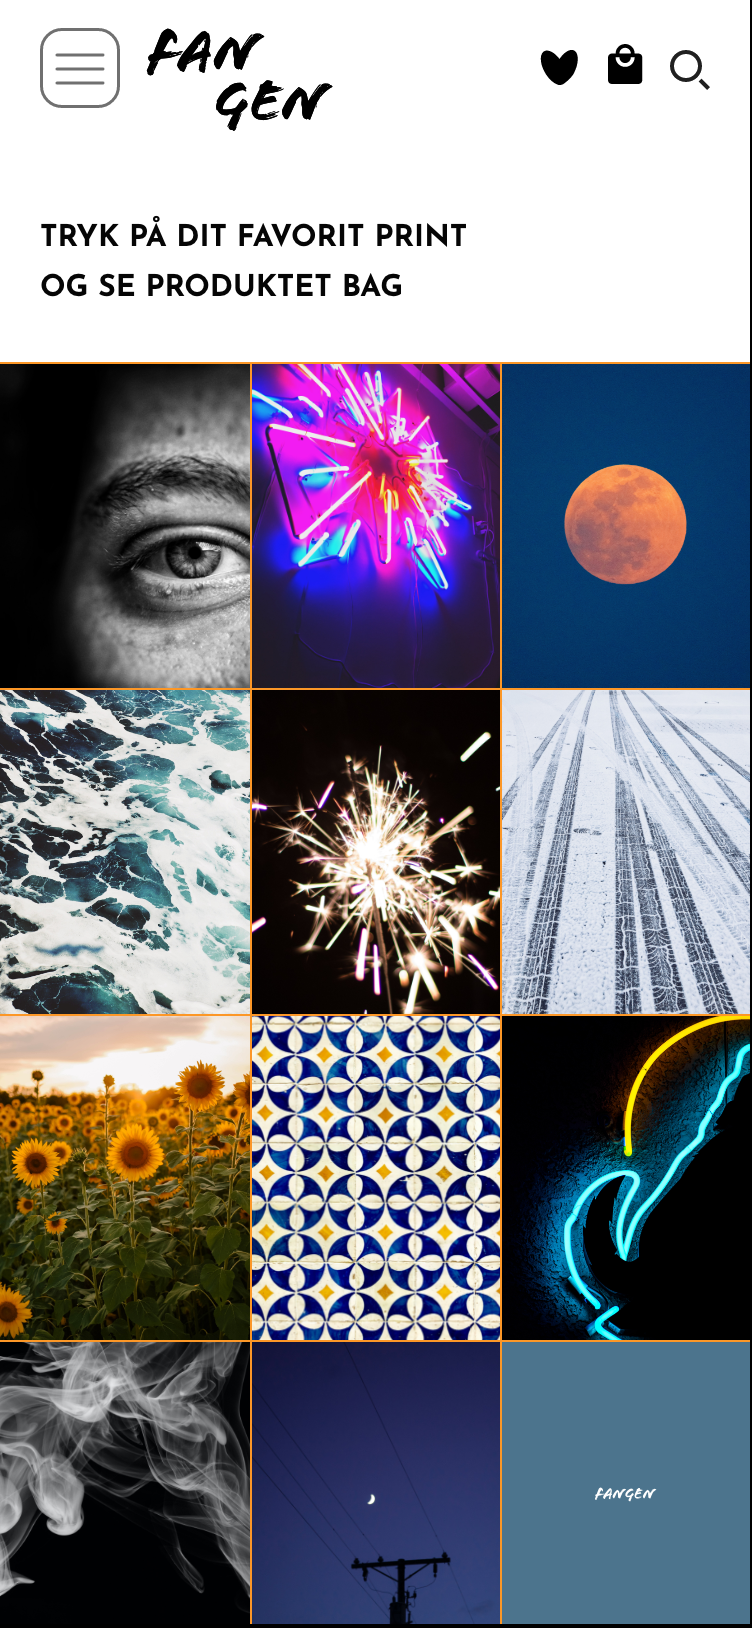
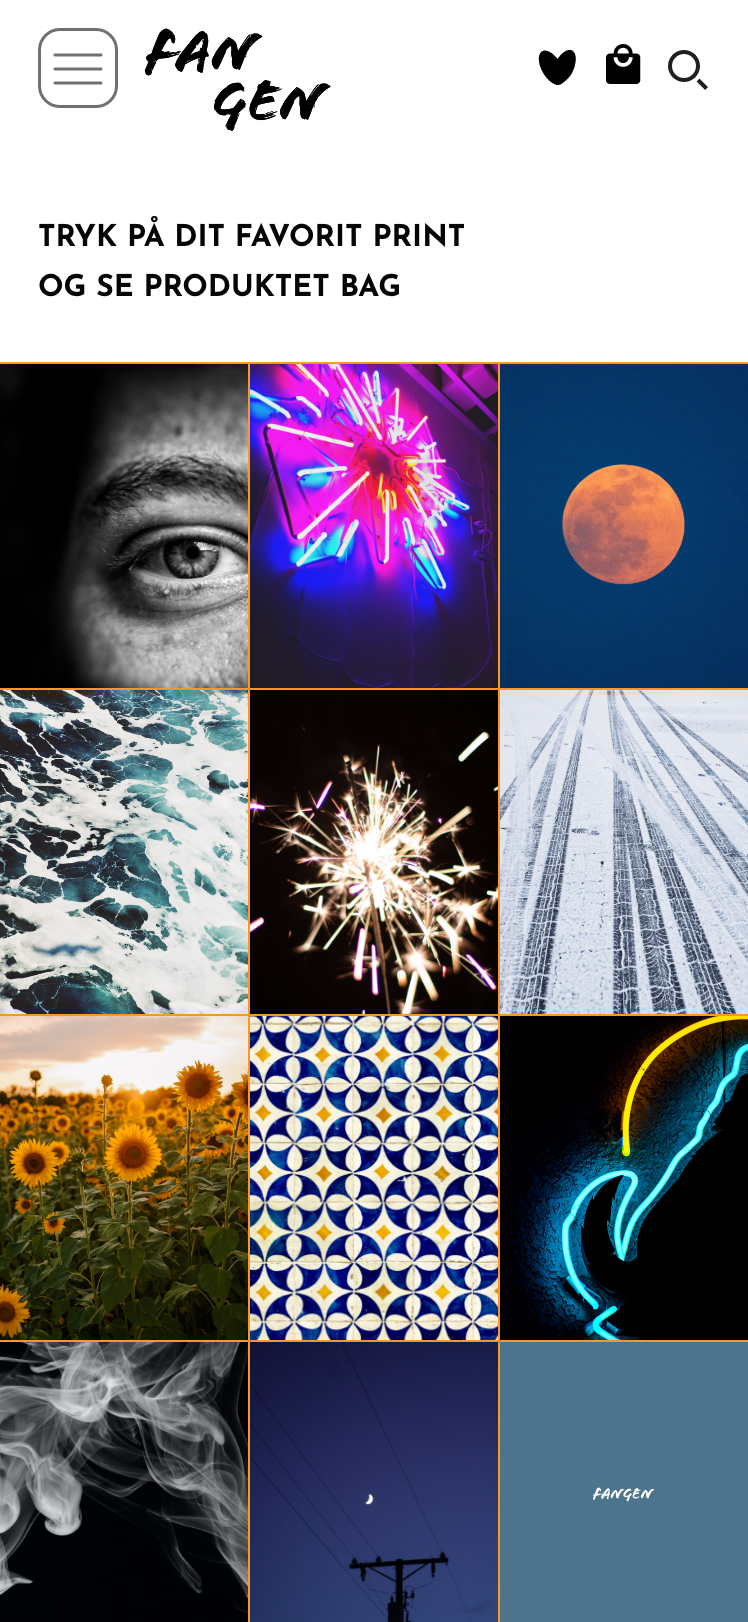
tema3 endelig er rette og billederne har fået kant

diff --git a/tema3_endelig.html b/tema3_endelig.html
@@ -103,13 +103,13 @@
                     <p>Jeg valget at lægge stor vægt på microcopy under mine betalingssider, idet jeg erfarede, at netop denne del af onlinehandel kan skabe frustration og forvirring hos brugeren. Jeg ønskede herpå at guide brugeren bedst muligt igennem købet ved at anvende kerneprincippet med samtal. </p>
                 </div>
                 <div class="col">
-                    <img src="billeder/tema3/endelig/k_1.png" alt="Trejde eksampel">
+                    <img src="billeder/tema3/endelig/k_2.png" alt="Trejde eksampel">
                 </div>
                 <div class="col">
-                    <img src="billeder/tema3/endelig/k_2.png" alt="Anden eksempel">
+                    <img src="billeder/tema3/endelig/k_3.png" alt="Anden eksempel">
                 </div>
                 <div class="col">
-                    <img src="billeder/tema3/endelig/k_3.png" alt="Første eksempel">
+                    <img src="billeder/tema3/endelig/k_1.png" alt="Første eksempel">
                 </div>
             </div>
         </section>
@@ -118,7 +118,7 @@
         <section id="endelig_fourth">
             <div class="section_wrapper">
                 <div class="row_top">
-                    <p>På min endelige prototype kørte jeg en tænk-højttest. Testen blev udført på tre studiekameraet, hvor jeg først stillede nogle indledende spørgsmål, hvorefter de fik min prototype, og nogen opgaver de skulle løse. <br><br>Jeg brugte testen til at finde mangler i mit design. Derudover fik jeg et indblik i hvad, der fungerede og hvad der ikke gjorde. Her ses nogen af mine rettelser. </p>
+                    <p>På min endelige prototype kørte jeg en tænk-højttest. Testen blev udført på tre studiekameraet, hvor jeg først stillede nogle indledende spørgsmål, hvorefter de fik min prototype, og nogen opgaver de skulle løse. <br><br>Jeg brugte testen til at finde mangler i mit design. Derudover fik jeg et indblik i hvad, der fungerede og hvad der ikke gjorde. Her ses nogen af mine rettelser. Højre billede er før og venstre billede er efter den gjorte rettelse.</p>
                 </div>
                 <div class="row_bottom">
                     <div class="image">

diff --git a/styles/tema3_endelig.css b/styles/tema3_endelig.css
@@ -8,7 +8,8 @@ p {
 
 h1,
 h2,
-h3 {
+h3,
+h4 {
     text-transform: uppercase;
 }
 
@@ -53,6 +54,7 @@ h3 {
 
 #endelig_second img {
     width: 70%;
+    border: 1px solid;
 }
 
 
@@ -89,6 +91,7 @@ h3 {
 
 #endelig_third img {
     width: 70%;
+    border: 1px solid;
 }
 
 
@@ -155,6 +158,17 @@ h3 {
 
 }
 
+#endelig_fifth .section_wrapper h4 {
+    font-weight: normal;
+}
+
+#endelig_fifth a {
+    text-decoration: underline;
+    font-weight: 900;
+}
+
+
+
 
 @media only screen and (min-width: 600px) {
 
@@ -175,6 +189,7 @@ h3 {
         display: grid;
         grid-template-columns: 1fr 1fr 1fr;
         grid-column-gap: 20px;
+        margin-bottom: 100px;
     }
 
 
@@ -184,6 +199,7 @@ h3 {
         display: grid;
         grid-template-columns: 1fr 1fr 1fr 1fr;
         grid-column-gap: 20px;
+        margin-bottom: 100px;
     }
 
 
@@ -225,9 +241,15 @@ h3 {
     /*---------endelig_fourth-----------*/
     #endelig_fourth .section_wrapper {
         display: grid;
-        grid-template-rows: .5fr 3fr;
+        grid-template-rows: .5fr 1fr;
         grid-column-gap: 20px;
     }
+
+    #endelig_fourth .row_top {
+        padding-right: 100px;
+
+    }
+
 
     #endelig_fourth .row_bottom {
         display: grid;
